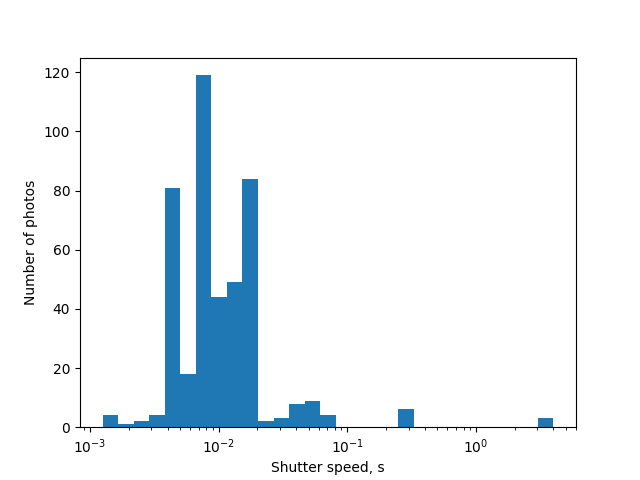
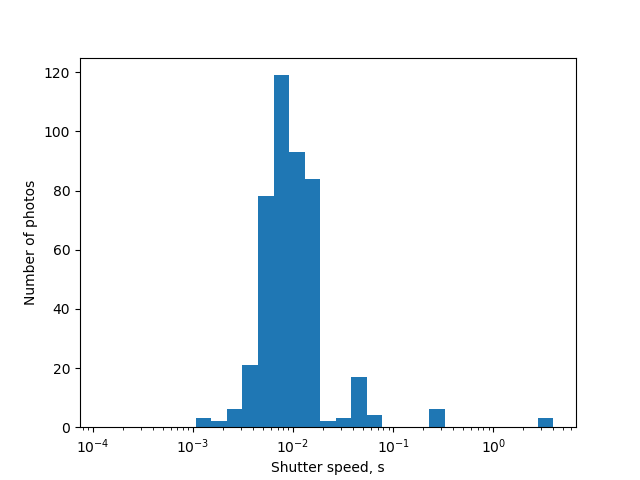
Updated to Python 3

diff --git a/focal_stats.py b/focal_stats.py
@@ -52,21 +52,21 @@ def process_images(path, camera_type):
     if focus:
         # x = np.asarray([f for f in focus if f <= 55])
         plt.figure()
-        plt.hist(asarray(focus), normed=False, bins=30)
+        plt.hist(asarray(focus), bins=30)
         plt.ylabel('Number of photos');
         plt.xlabel('Focal distance, mm');
         plt.savefig('focal_distance.png')
 
     if f:
         plt.figure()
-        plt.hist(asarray(f), normed=False, bins=30)
+        plt.hist(asarray(f), bins=30)
         plt.ylabel('Number of photos');
-        plt.xlabel('f number, mm');
+        plt.xlabel('f number');
         plt.savefig('f_number.png')
 
     if t:
         plt.figure()
-        plt.hist(asarray(t), normed=False, bins=logspace(log10(min(t)), log10(max(t)), 30))
+        plt.hist(asarray(t), bins=logspace(log10(min(t))-1, log10(max(t)), 30))
         plt.ylabel('Number of photos');
         plt.xlabel('Shutter speed, s');
         plt.gca().set_xscale("log")
